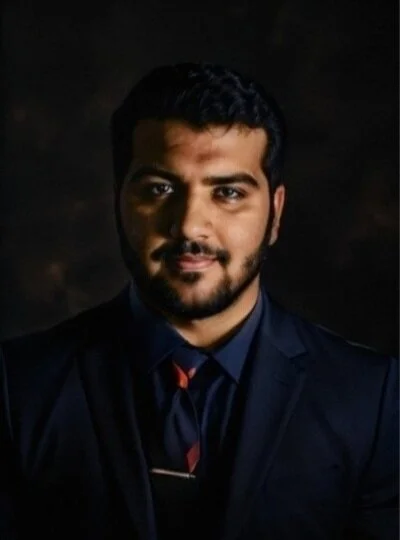
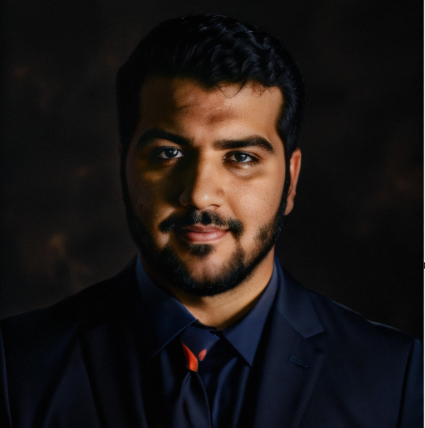
ajout d'une image de meilleure qualité dans le layout hero

diff --git a/layouts/Hero.vue b/layouts/Hero.vue
@@ -23,18 +23,18 @@ const Réseaux_sociaux = [
     display: flex;
     justify-content: center;
     height: 75vh;
-    align-items: center;
+    align-items: center
 }
 .description {
     max-width: 430px;
-    margin-right: 100px;
+    margin-right: 100px
 }
 .logo {
-    align-self: center;
+    align-self: center
 }
 h1 {
     font-size: 40px;
-    letter-spacing: -0.5px;
+    letter-spacing: -0.5px
 }
 h2 {
     margin: 20px 0px;
@@ -42,63 +42,64 @@ h2 {
     opacity: 0.8;
     font-weight: 400;
     letter-spacing: -0.5px;
-    line-height: 1.5em;
+    line-height: 1.5em
 }
 p {
     font-size: 30px;
     font-weight: 700;
     margin-bottom: 20px;
     opacity: 0.8;
-    width: 500px;
+    width: 500px
 }
 a {
-    margin-right: 10px;
+    margin-right: 10px
 }
 .imagehero {
     border-radius: 200em;
-    height: 400px;
-    width: 395px;
+    height: 380px;
+    width: 400px;
     animation: morph 8s ease-in-out infinite;
-    background-image: url('/public/photohero.webp');
+    border: 2px solid white;
+    background-image: url('/public/photohero.webp')
 } 
 
 @keyframes morph {
     0% {
-    border-radius: 60% 40% 30% 70% / 60% 30% 70% 40%;
+    border-radius: 60% 40% 30% 70% / 60% 30% 70% 40%
 }
 50% {
-    border-radius: 30% 60% 70% 40% / 50% 60% 30% 60%;
+    border-radius: 30% 60% 70% 40% / 50% 60% 30% 60%
 }
 100% {
-    border-radius: 60% 40% 30% 70% / 60% 30% 70% 40%;
+    border-radius: 60% 40% 30% 70% / 60% 30% 70% 40%
 }
 }
 
 @media only screen and (max-width: 947px) {
     .hero{
-        flex-direction: column-reverse;
+        flex-direction: column-reverse
     }
     .description {
         text-align: center;
-        margin-right: 0px;
+        margin-right: 0px
     }
     .imagehero {
-        height: 600px;
+        height: 600px
     }
 }
 @media only screen and (max-width: 505px) {
     .description {
-        padding: 7px;
+        padding: 7px
     }
     .imagehero {
         height: 300px;
         width: 250px;
-        background-position: 45% 25%;
+        background-position: 45% 25%
     }
 }
 @media only screen and (max-width: 431px) {
     h1 {
-        font-size: 35px;
+        font-size: 35px
     }
 }
 </style>
